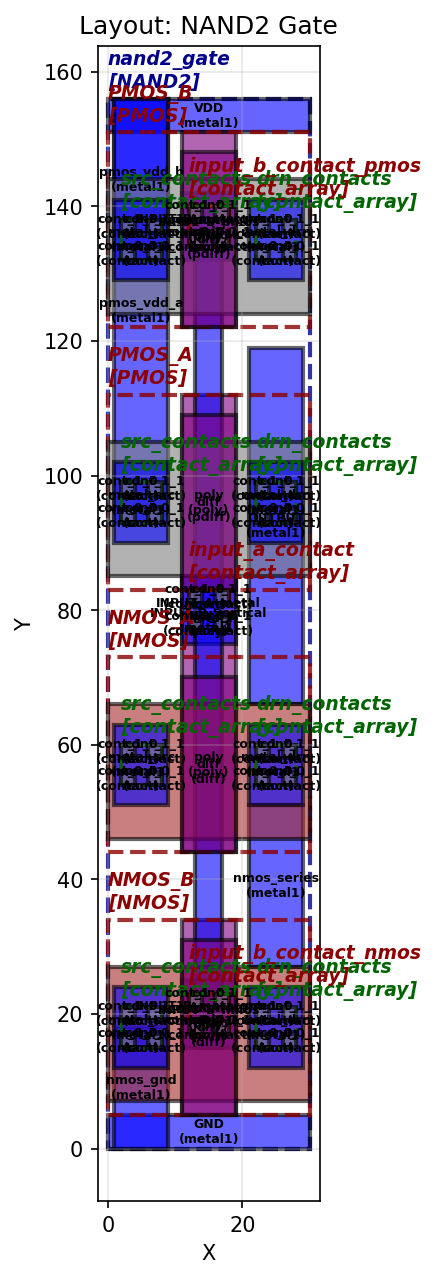
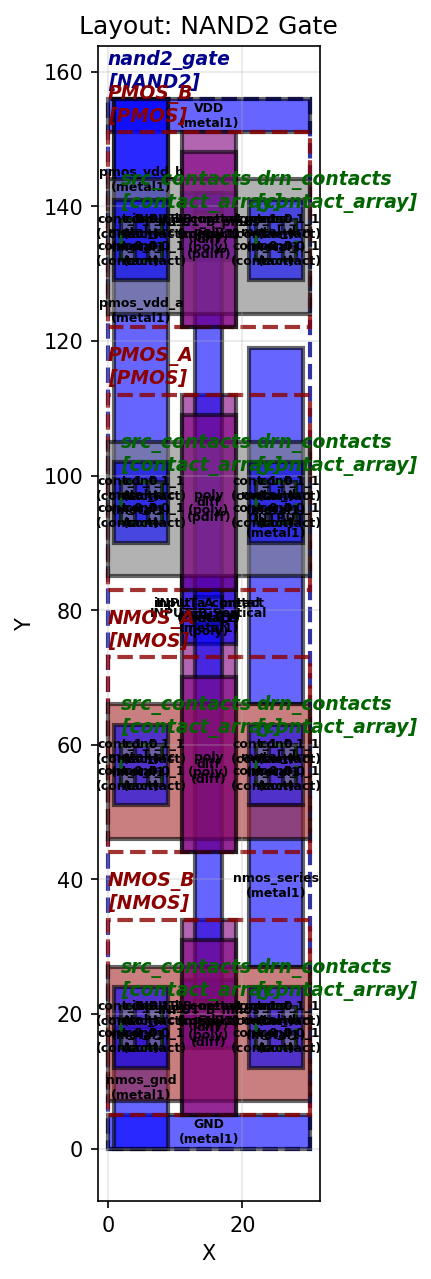
Use single contacts for metal-to-poly connections in NAND2
Updated NAND2 gate to use single contacts instead of contact arrays
for metal-to-poly connections:
- Input A: single 4x4 contact connecting metal to poly
- Input B: two single 4x4 contacts (one at NMOS_B, one at PMOS_B)

This is cleaner and more efficient - a single contact is sufficient
for gate connections.

🤖 Generated with [Claude Code](https://claude.com/claude-code)

diff --git a/examples/nand2_gate_demo.py b/examples/nand2_gate_demo.py
@@ -173,20 +173,20 @@ def create_nand2_gate(nmos, pmos):
     output_metal = Polygon('OUTPUT', 'metal1')
     output_metal.pos_list = [21, 66, 29, 119]  # Connects NMOS_A drain to both PMOS drains
 
-    # Input A connection with metal-to-poly contacts
+    # Input A connection with metal-to-poly contact
     # Input A connects to PMOS_A and NMOS_A gates
     input_a_poly = Polygon('INPUT_A', 'poly')
     input_a_poly.pos_list = [11, 44, 19, 112]  # Spans NMOS_A and PMOS_A gates
 
-    # Add metal stub and contact for Input A (essential for external connection)
+    # Add metal stub and single contact for Input A (essential for external connection)
     input_a_metal = Polygon('INPUT_A_metal', 'metal1')
     input_a_metal.pos_list = [11, 75, 19, 85]  # Metal region over poly
 
-    # Contact array for metal-to-poly connection at Input A
-    input_a_contact = CellInstance('input_a_contact', contact_array)
-    input_a_contact.pos_list = [12, 77, 18, 83]  # Centered on metal/poly overlap
+    # Single contact for metal-to-poly connection at Input A
+    input_a_contact = Polygon('input_a_contact', 'contact')
+    input_a_contact.pos_list = [13, 78, 17, 82]  # Single 4x4 contact on metal/poly overlap
 
-    # Input B connection with metal-to-poly contacts
+    # Input B connection with metal-to-poly contact
     # Input B connects to PMOS_B and NMOS_B gates
     input_b_poly_nmos = Polygon('INPUT_B_nmos', 'poly')
     input_b_poly_nmos.pos_list = [11, 5, 19, 34]  # NMOS_B gate
@@ -194,19 +194,19 @@ def create_nand2_gate(nmos, pmos):
     input_b_poly_pmos = Polygon('INPUT_B_pmos', 'poly')
     input_b_poly_pmos.pos_list = [11, 122, 19, 151]  # PMOS_B gate
 
-    # Add metal stub and contact for Input B at NMOS_B
+    # Add metal stub and single contact for Input B at NMOS_B
     input_b_metal_nmos = Polygon('INPUT_B_metal_nmos', 'metal1')
     input_b_metal_nmos.pos_list = [11, 15, 19, 25]  # Metal over NMOS_B poly
 
-    input_b_contact_nmos = CellInstance('input_b_contact_nmos', contact_array)
-    input_b_contact_nmos.pos_list = [12, 17, 18, 23]  # Metal-to-poly contact
+    input_b_contact_nmos = Polygon('input_b_contact_nmos', 'contact')
+    input_b_contact_nmos.pos_list = [13, 18, 17, 22]  # Single 4x4 contact
 
-    # Add metal stub and contact for Input B at PMOS_B
+    # Add metal stub and single contact for Input B at PMOS_B
     input_b_metal_pmos = Polygon('INPUT_B_metal_pmos', 'metal1')
     input_b_metal_pmos.pos_list = [11, 132, 19, 142]  # Metal over PMOS_B poly
 
-    input_b_contact_pmos = CellInstance('input_b_contact_pmos', contact_array)
-    input_b_contact_pmos.pos_list = [12, 134, 18, 140]  # Metal-to-poly contact
+    input_b_contact_pmos = Polygon('input_b_contact_pmos', 'contact')
+    input_b_contact_pmos.pos_list = [13, 135, 17, 139]  # Single 4x4 contact
 
     # Vertical metal to connect Input B at both transistors
     input_b_metal_vertical = Polygon('INPUT_B_vertical', 'metal1')
@@ -214,17 +214,12 @@ def create_nand2_gate(nmos, pmos):
 
     nand2.add_polygon([
         vdd_rail, gnd_rail,
-        input_a_poly, input_a_metal,
+        input_a_poly, input_a_metal, input_a_contact,
         input_b_poly_nmos, input_b_poly_pmos,
         input_b_metal_nmos, input_b_metal_pmos, input_b_metal_vertical,
+        input_b_contact_nmos, input_b_contact_pmos,
         nmos_series, pmos_vdd_a, pmos_vdd_b, nmos_gnd,
         output_metal
-    ])
-
-    nand2.add_instance([
-        input_a_contact,
-        input_b_contact_nmos,
-        input_b_contact_pmos
     ])
 
     return nand2
@@ -287,7 +282,7 @@ if __name__ == "__main__":
     print("  - Input A: controls PMOS_A and NMOS_A (with metal-to-poly contacts)")
     print("  - Input B: controls PMOS_B and NMOS_B (with metal-to-poly contacts)")
     print("  - Output: LOW only when both A=1 AND B=1 (NAND logic)")
-    print("\nKey feature: Metal-to-poly contacts for gate connections!")
+    print("\nKey feature: Single metal-to-poly contacts for gate connections!")
     print("\nFiles generated:")
     print("  - demo_outputs/nand2_gate.gds")
     print("  - demo_outputs/nand2_gate.png")
